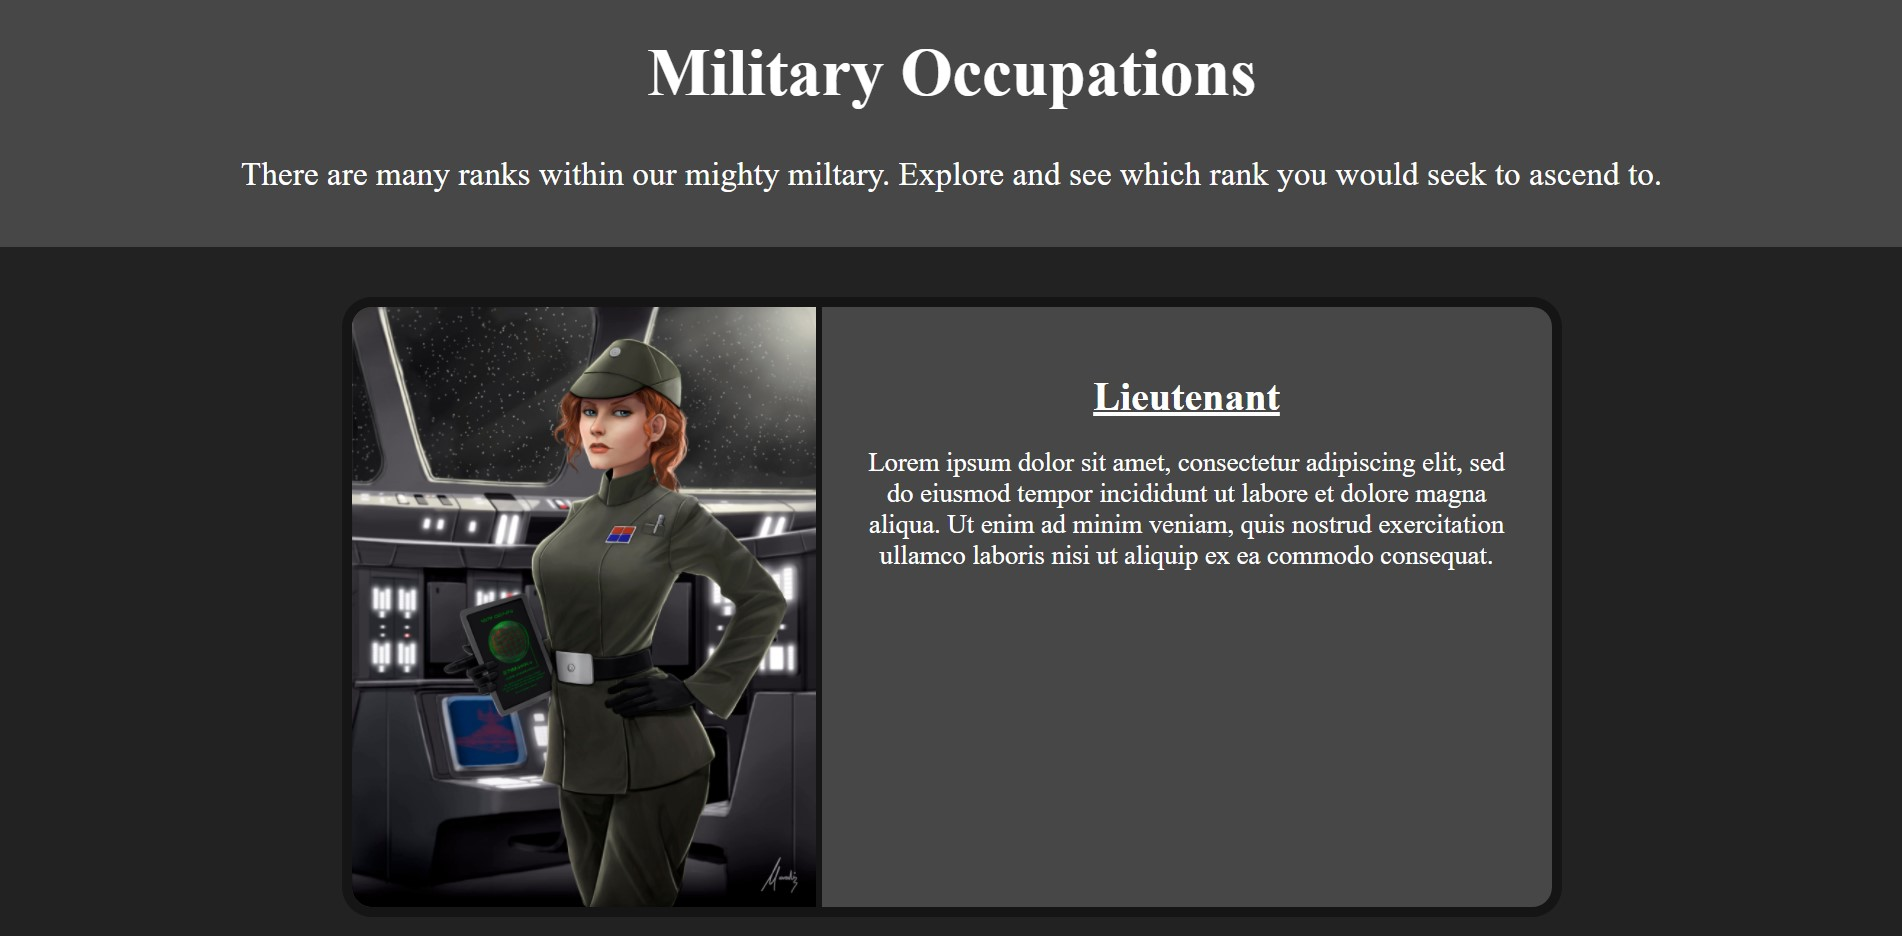
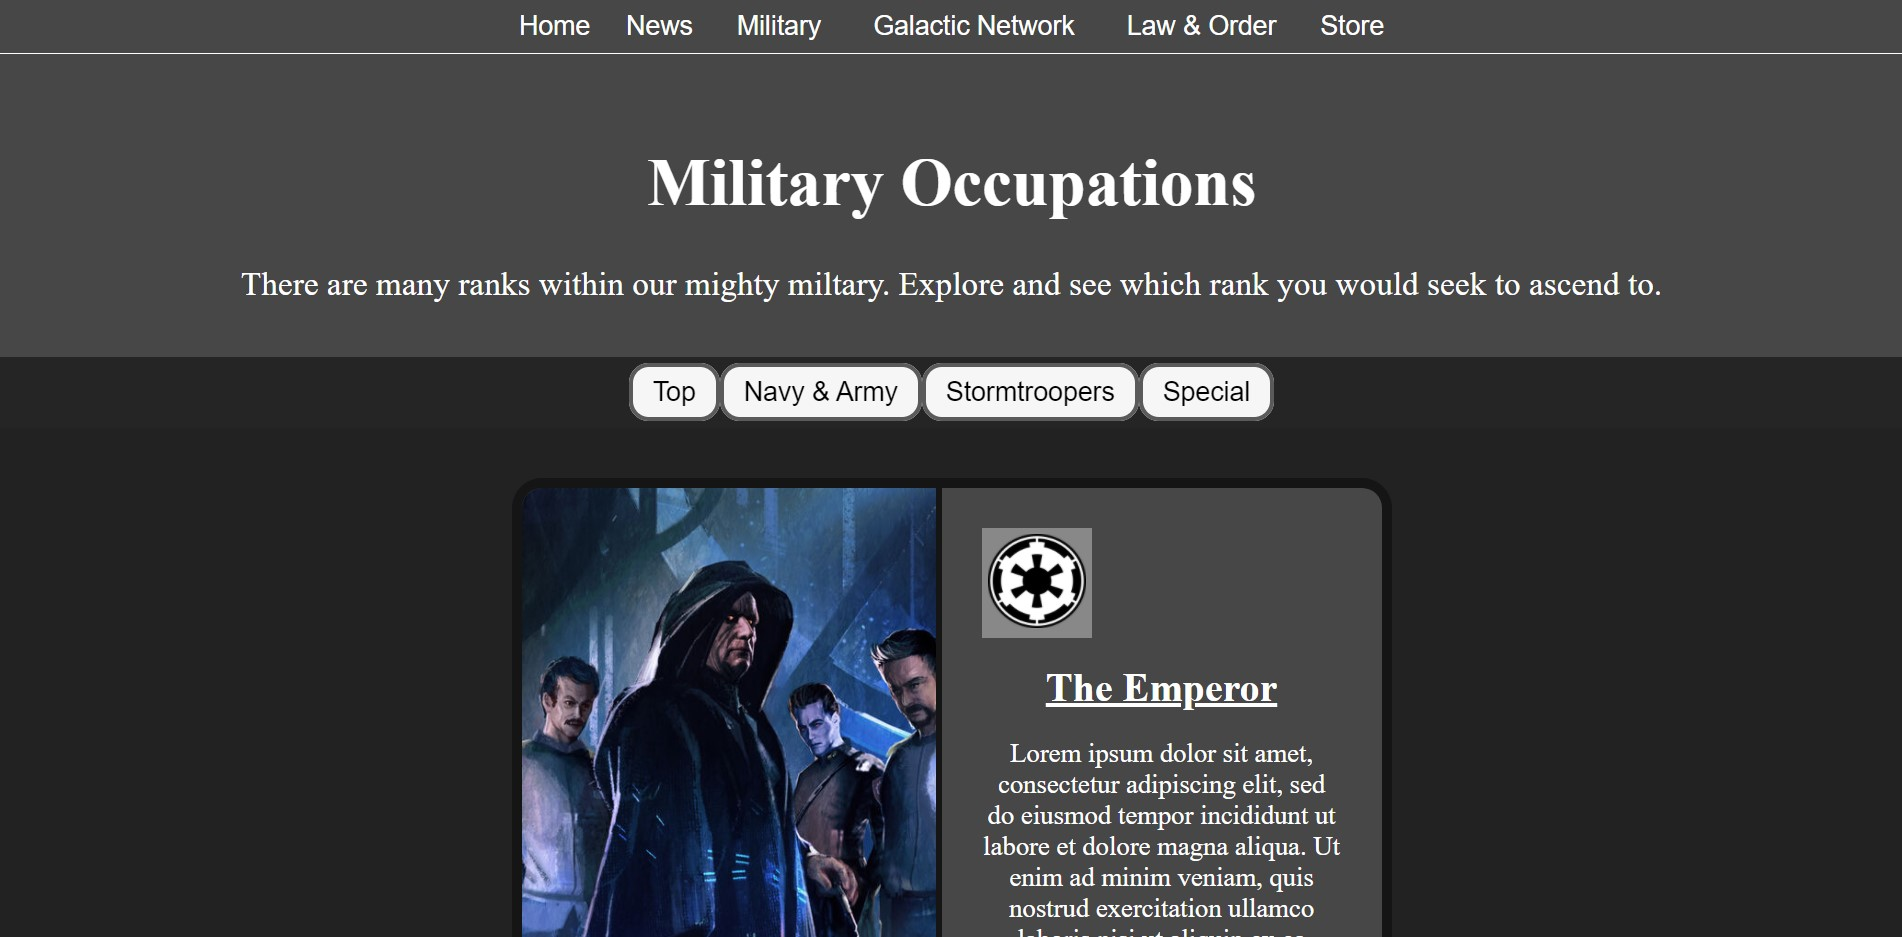
Added sticky navigation buttons to occupations

diff --git a/src/Military/MilitaryOccupations.js b/src/Military/MilitaryOccupations.js
@@ -10,10 +10,15 @@ function MilitaryOccupations() {
             <div id='header-section'>
                 <h1 className='header-header'>Military Occupations</h1>
                 <p className='header-text'>There are many ranks within our mighty miltary. Explore and see which rank you would seek to ascend to.</p>
-                <div className='buttons-section'>
-                    <button className='button'><a href='top'>Top</a></button>
-                </div>
             </div>
+
+            <div className='buttons-section'>
+                <a className='button' href='#header-section'>Top</a>
+                <a className='button' href='#navy-army'>Navy &amp; Army</a>
+                <a className='button' href='#stormtroopers'>Stormtroopers</a>
+                <a className='button' href='#special'>Special</a>
+            </div>
+
             {/* Start of the Ranks listings */}
             <div className='occupation-container'>
                 <div className='occ-body'>
@@ -50,7 +55,7 @@ function MilitaryOccupations() {
                     </div>
                 </div>
 
-                <div className='occ-title'>
+                <div className='occ-title' id='navy-army'>
                     <h1>Imperial Navy</h1>
                     <h1>Imperial Army</h1>
                 </div>
@@ -882,6 +887,37 @@ function MilitaryOccupations() {
                 </div>
 
                 {/* Stormtroopers */}
+                <div className='occ-title' id='stormtroopers'>
+                    <h1>Stormtroopers</h1>
+                </div>
+
+                <div className='occ-body'>
+                    <div className='occ-image'>
+                        <img src='./images/Stormtrooper_MOprofile.png'/>
+                    </div>
+                    <div className='occ-text'>
+                        <table>
+                            <tr>
+                                <td className='red'></td>
+                                <td className='red'></td>
+                            </tr>
+                            <tr>
+                                <td className='blue'></td>
+                                <td className='blue'></td>
+                            </tr>
+                        </table>
+                        <h1>Stormtrooper</h1>
+                        <p>Lorem ipsum dolor sit amet, consectetur adipiscing elit, sed do eiusmod tempor 
+                            incididunt ut labore et dolore magna aliqua. Ut enim ad minim veniam, quis 
+                            nostrud exercitation ullamco laboris nisi ut aliquip ex ea commodo consequat.</p>
+                    </div>
+                </div>
+
+                 {/* Special */}
+                 <div className='occ-title' id='special'>
+                    <h1>Special Troopers</h1>
+                </div>
+
                 <div className='occ-body'>
                     <div className='occ-image'>
                         <img src='./images/Stormtrooper_MOprofile.png'/>

diff --git a/src/Military/MilitaryOccupations.css b/src/Military/MilitaryOccupations.css
@@ -7,6 +7,7 @@ body{
     background-color: rgb(34, 34, 34);
     color: white;
     margin: 0;
+    font-family:'Times New Roman', Times, serif;
 }
 
 #header-section{
@@ -16,14 +17,36 @@ body{
     background-color: rgb(71, 71, 71);
 }
 
-.header-header{
-    font-size: 50pt;
-    font-weight: 800;
+    .header-header{
+        font-size: 50pt;
+        font-weight: 800;
+    }
+
+    .header-text{
+        font-size: 25pt;
+    }
+
+.buttons-section{
+    position: sticky;
+    top: 0;
+    padding: 20px;
+    background-color:rgba(39, 39, 39, 0.7);
 }
 
-.header-text{
-    font-size: 25pt;
-}
+    .button{
+        font-size: 20pt;
+        padding: 10px 20px 10px 20px;
+        border: 4px solid rgb(90, 90, 90);
+        border-radius: 20px;
+        color: black;
+        background-color: rgb(246, 246, 246);
+        font-family:Arial, Helvetica, sans-serif;
+    }
+    
+    .button:hover{
+        background-color: rgb(255, 81, 0);
+        cursor: pointer;
+    }
 
 .occupation-container{
     

diff --git a/src/Home.css b/src/Home.css
@@ -6,6 +6,7 @@ body {
     background-color: black;
     color: white;
     margin: 0;
+    font-family:'Times New Roman', Times, serif;
 }
 
 .top-container {
@@ -154,6 +155,7 @@ p.quote-cite {
     padding: 10px;
     border: 4px solid rgb(90, 90, 90);
     border-radius: 20px;
+    background-color: rgb(246, 246, 246);
 }
 
 .button:hover{
